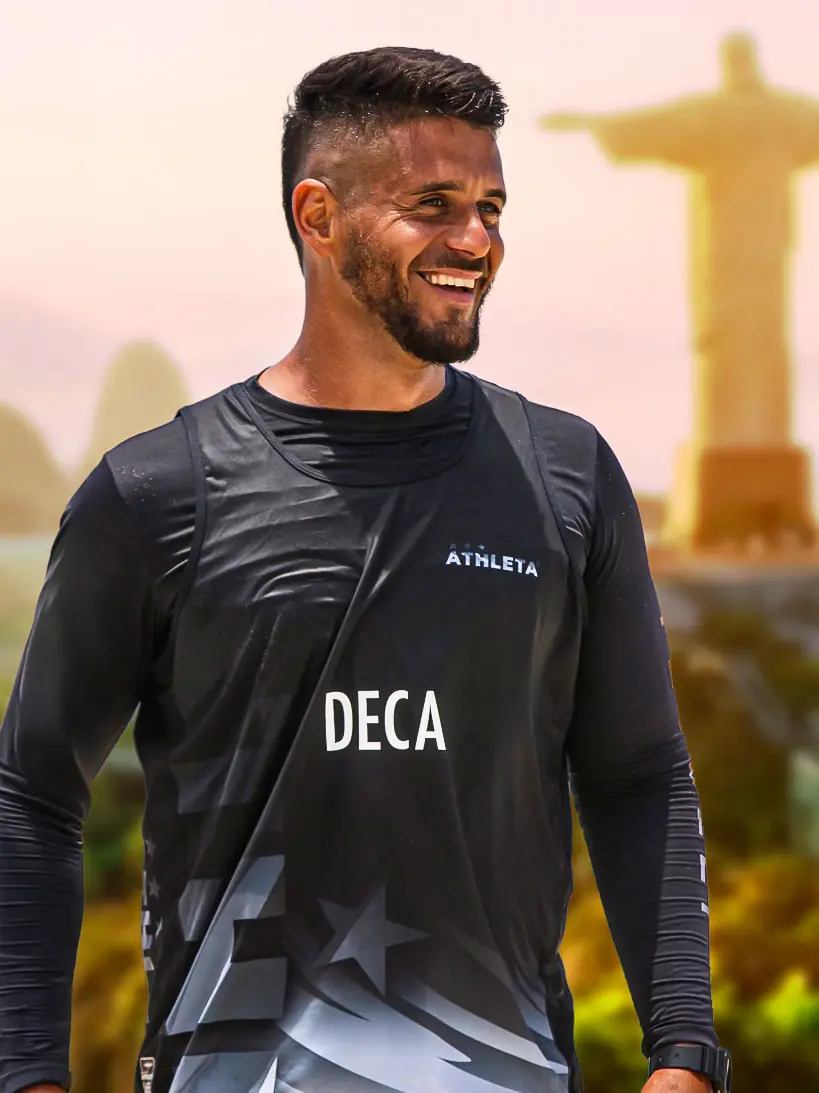
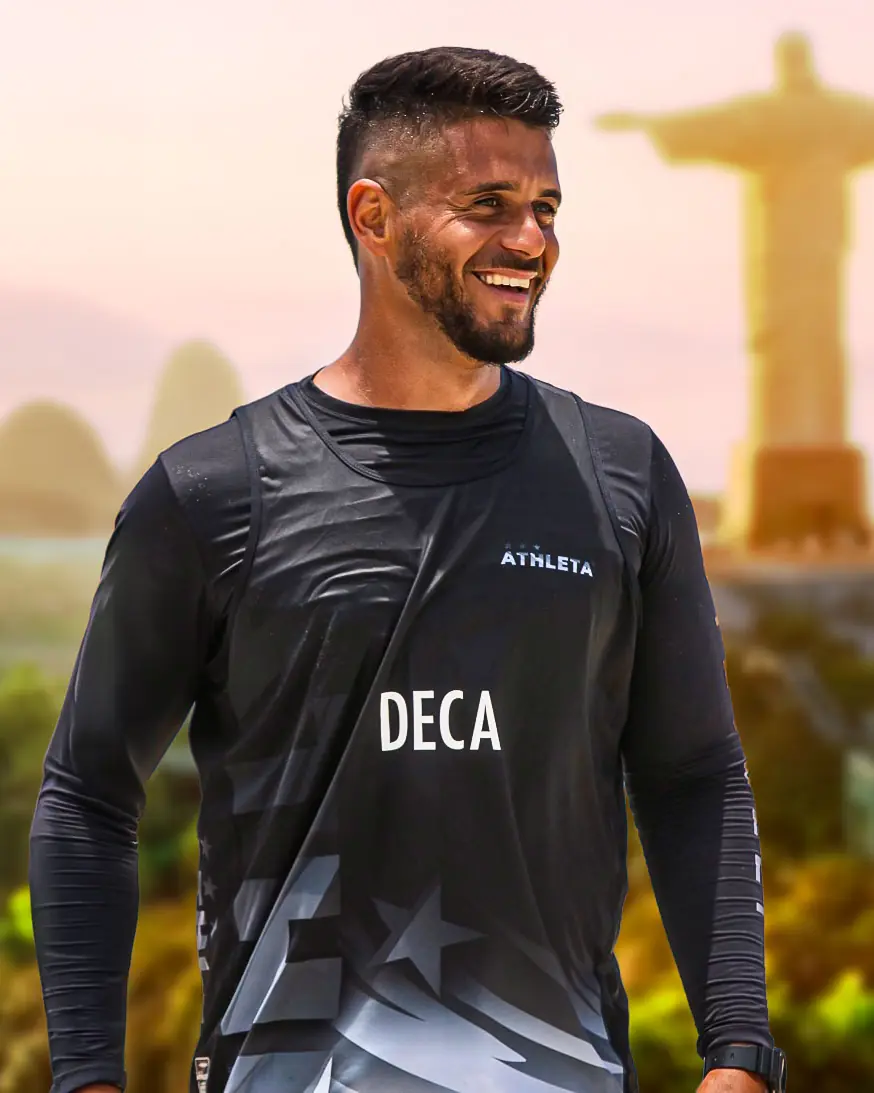
Corrige o rosto cortado no celular: ancora a foto no topo
A arte tem so 5% de folga acima da cabeca. Com object-center, sempre que a
faixa fica mais baixa que a proporcao da foto o corte come a testa, e isso
acontece em qualquer celular de tela curta. No meu teste anterior, de 844px,
o rosto passava inteiro e o defeito nao aparecia; num aparelho mais curto
aparecia.

Duas mudancas:

object-top no lugar de object-center. O que sai do quadro passa a ser a
barra da camisa, nunca o rosto. Mesmo numa tela de 600px sobram os 71% de
cima da foto, e a cabeca esta nos primeiros 5%.

Recorte 4:5 no lugar de 3:4, por ficar mais perto da proporcao da faixa:
quanto mais perto, menos precisa ser cortado na vertical. Em tela de 844px o
corte cai para 2%.

Verificado em tres alturas de celular, 640, 740 e 844px: rosto inteiro nas
tres.

Changed region(s): [[0.0, 0.0311, 0.9158, 1.0], [0.8547, 0.0311, 0.9463, 0.0933], [0.7021, 0.0933, 0.7631, 0.1555]]

diff --git a/components/Hero.tsx b/components/Hero.tsx
@@ -219,7 +219,7 @@ export default function Hero() {
           alt={`${marca.autor}, criador do ${marca.nome}`}
           arte={hero.fotoArte}
           prioridade
-          className="[&_img]:object-center"
+          className="[&_img]:object-top"
         />
         {/* Véu no alto, só no celular: a nav ficou transparente e o topo desta
             foto é céu claro, onde o logo claro sumiria. Preto, nunca colorido,
